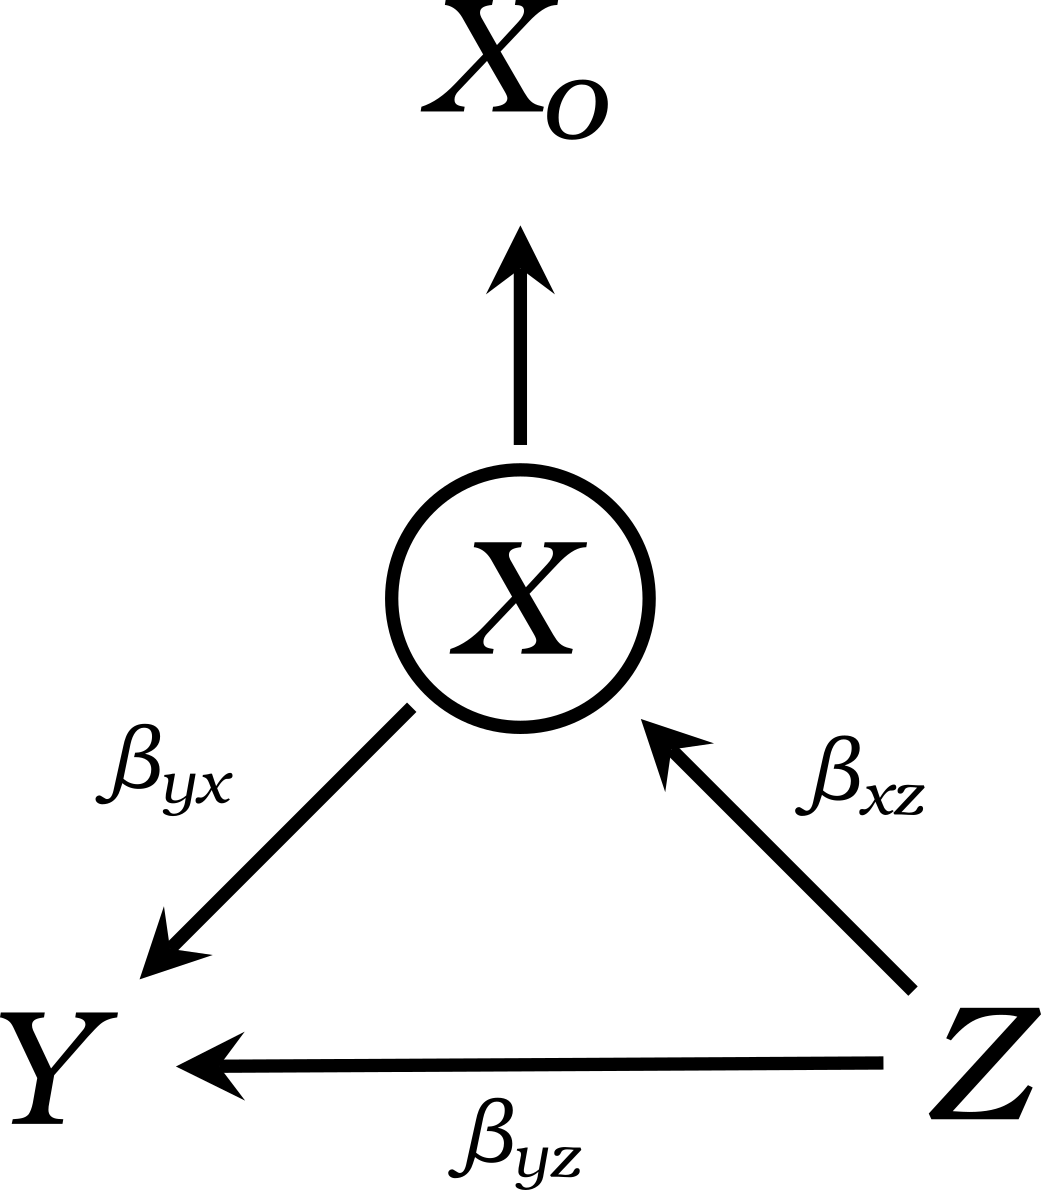
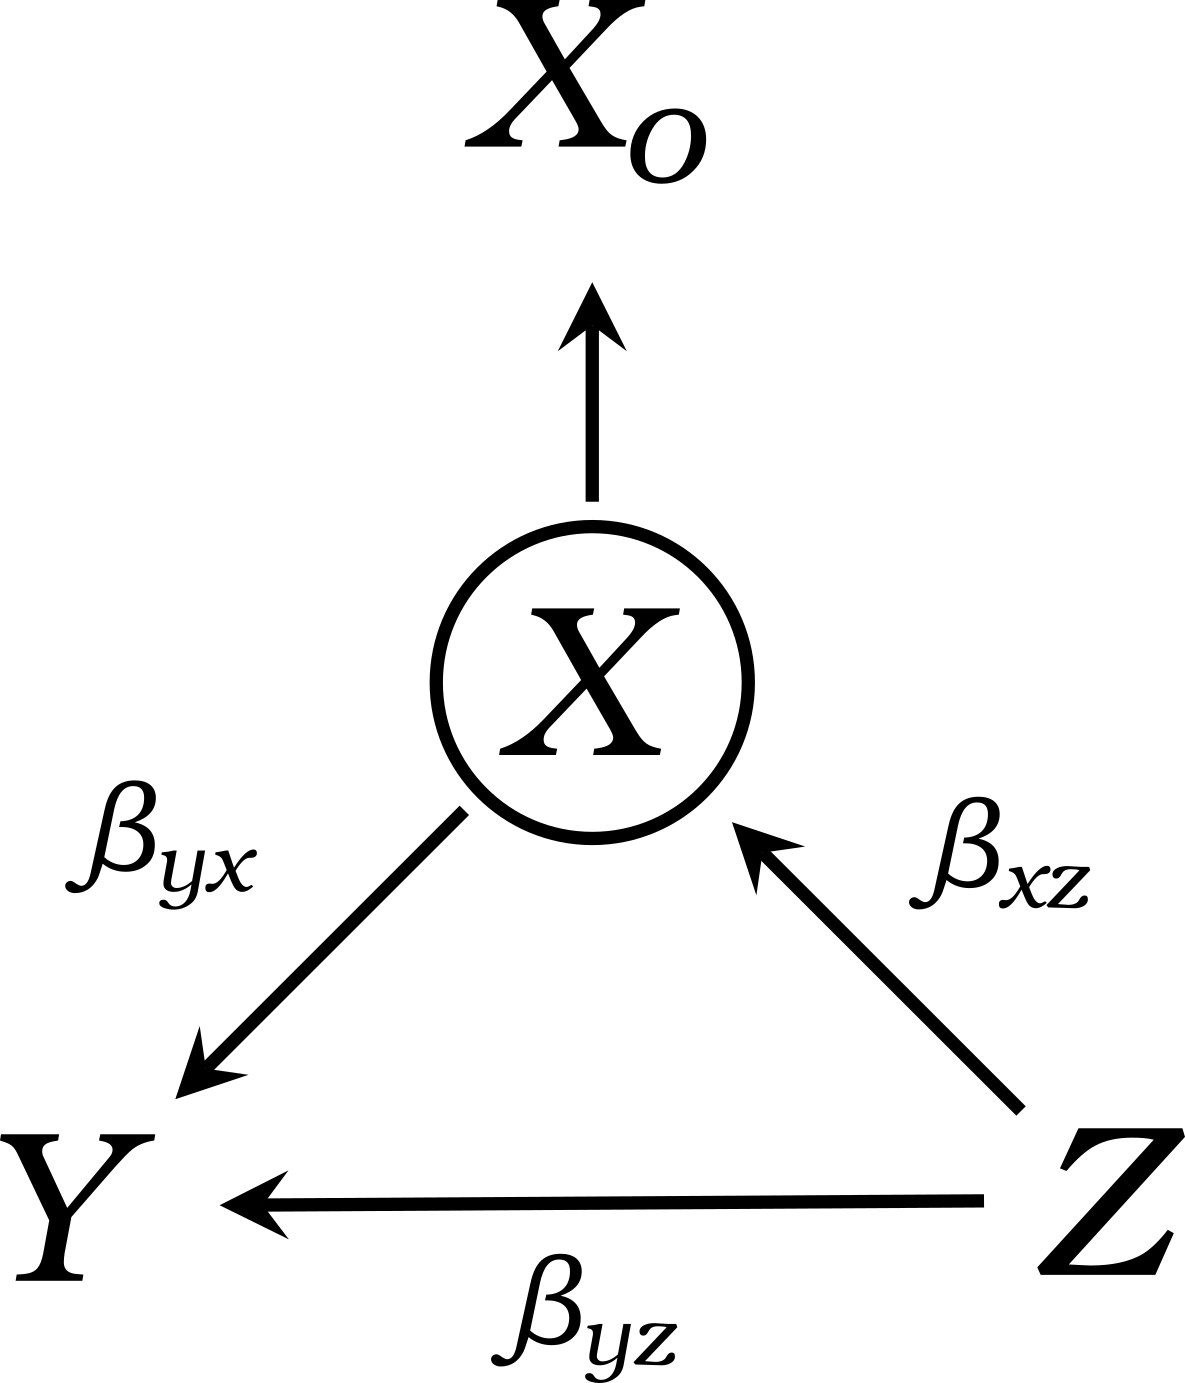
update dag

diff --git a/inst/cases/measurement_error_models/doc/dag.tex b/inst/cases/measurement_error_models/doc/dag.tex
@@ -43,22 +43,22 @@
 	auto,
 	node distance = 2cm, % distance between nodes
 	thick, % line style
-	U/.style={circle, draw=black, inner sep=1.8pt, outer sep=1.5pt, minimum size=3mm, font=\small},  %draw=black, fill=white
-	O/.style={circle, inner sep=1.4pt, outer sep=-.75pt, minimum size=3mm, font=\small},              %draw=white, fill=white
+	U/.style={circle, draw=black, inner sep=1.8pt, outer sep=1.5pt, minimum size=3mm, font=\large},  %draw=black, fill=white
+	O/.style={circle, inner sep=1.4pt, outer sep=-.75pt, minimum size=3mm, font=\large},              %draw=white, fill=white
 	]
 	
 	% Nodes and their relative positions
 	% t = 0
     \node[U] (X) {$X$};	
     \node[O] (Xo) [above = .5 of X] {$X_{o}$};
-    \node[O] (Z) [below right =.85 of X] {$Z$};
-    \node[O] (Y) [below left = .85 of X] {$Y$};
+    \node[O] (Z) [below right =.9 of X] {$Z$};
+    \node[O] (Y) [below left = .9 of X] {$Y$};
        
 	% Paths connecting nodes
-    \path[->] (X) edge node[above left,scale=.5]{$~~\beta_{yx}$} (Y);
+    \path[->] (X) edge node[above left,scale=.7]{$~~\beta_{yx}$} (Y);
     \path[->] (X) edge (Xo);
-    \path[->] (Z) edge node[above right,scale=.5]{$\beta_{xz}$} (X);
-    \path[->] (Z) edge node[scale=.5]{$\beta_{yz}$} (Y);
+    \path[->] (Z) edge node[above right,scale=.7]{$\beta_{xz}$} (X);
+    \path[->] (Z) edge node[scale=.7]{$\beta_{yz}$} (Y);
 \end{tikzpicture}
 
 \end{center}
